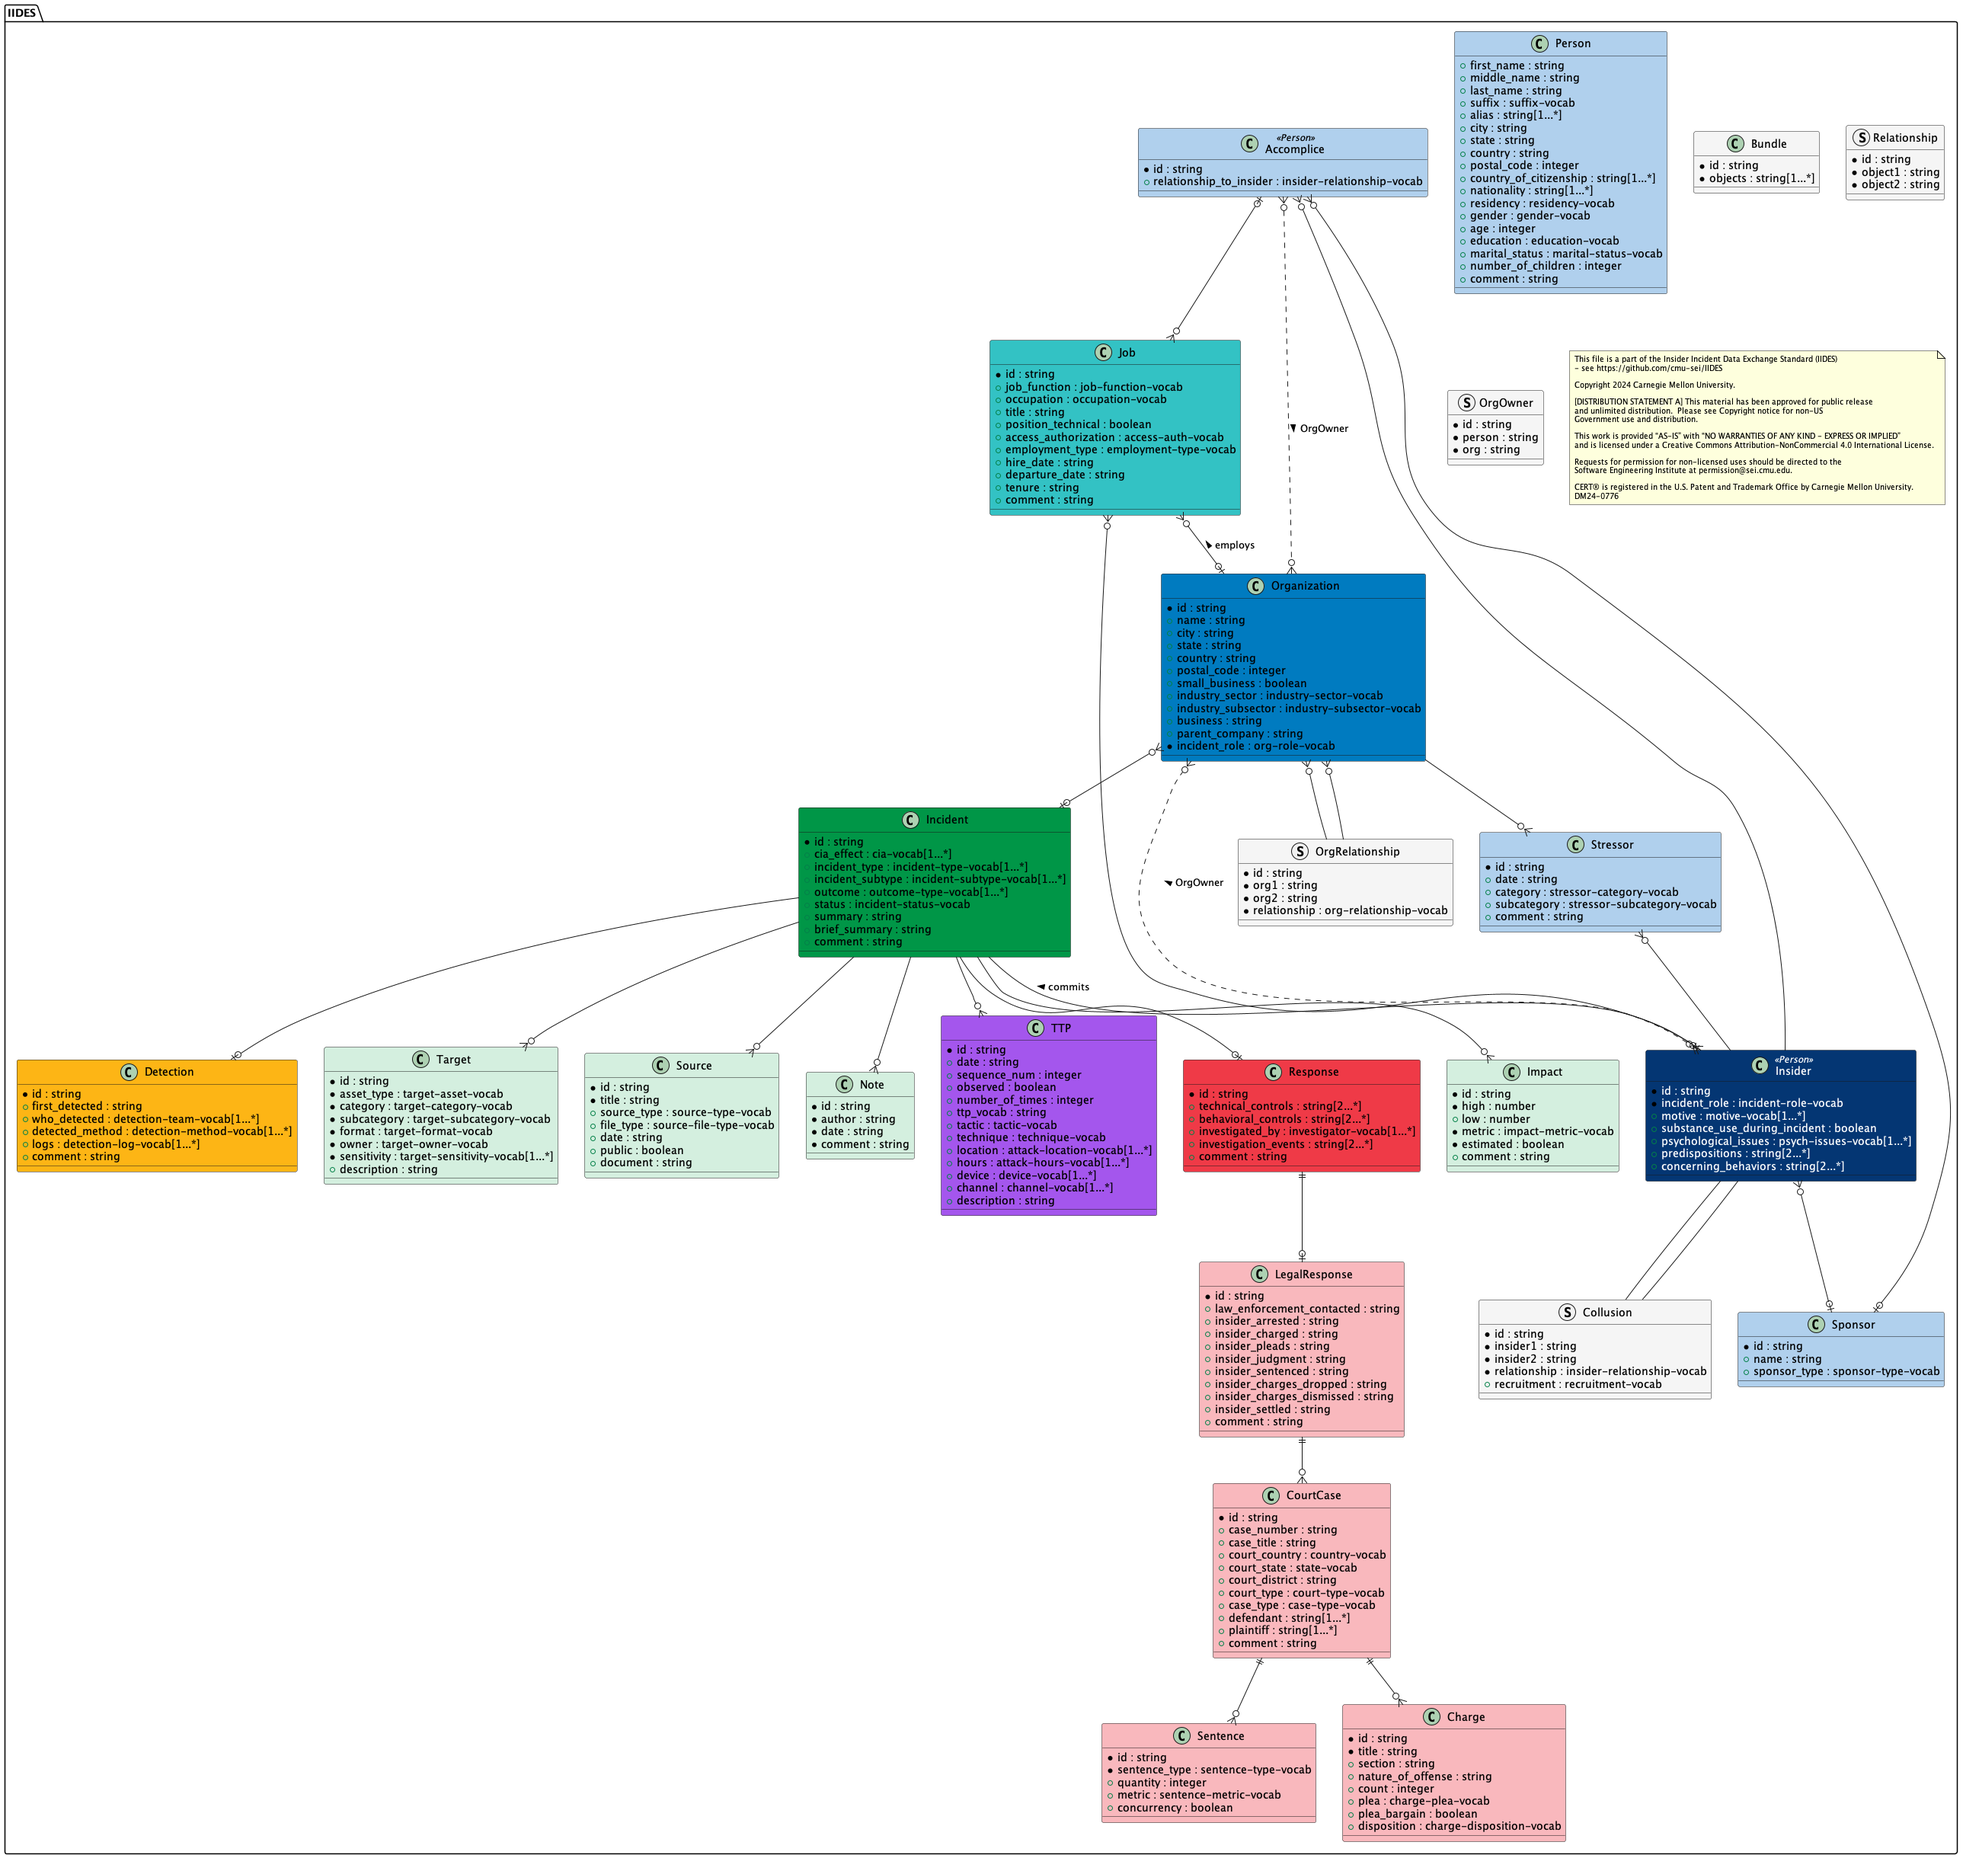
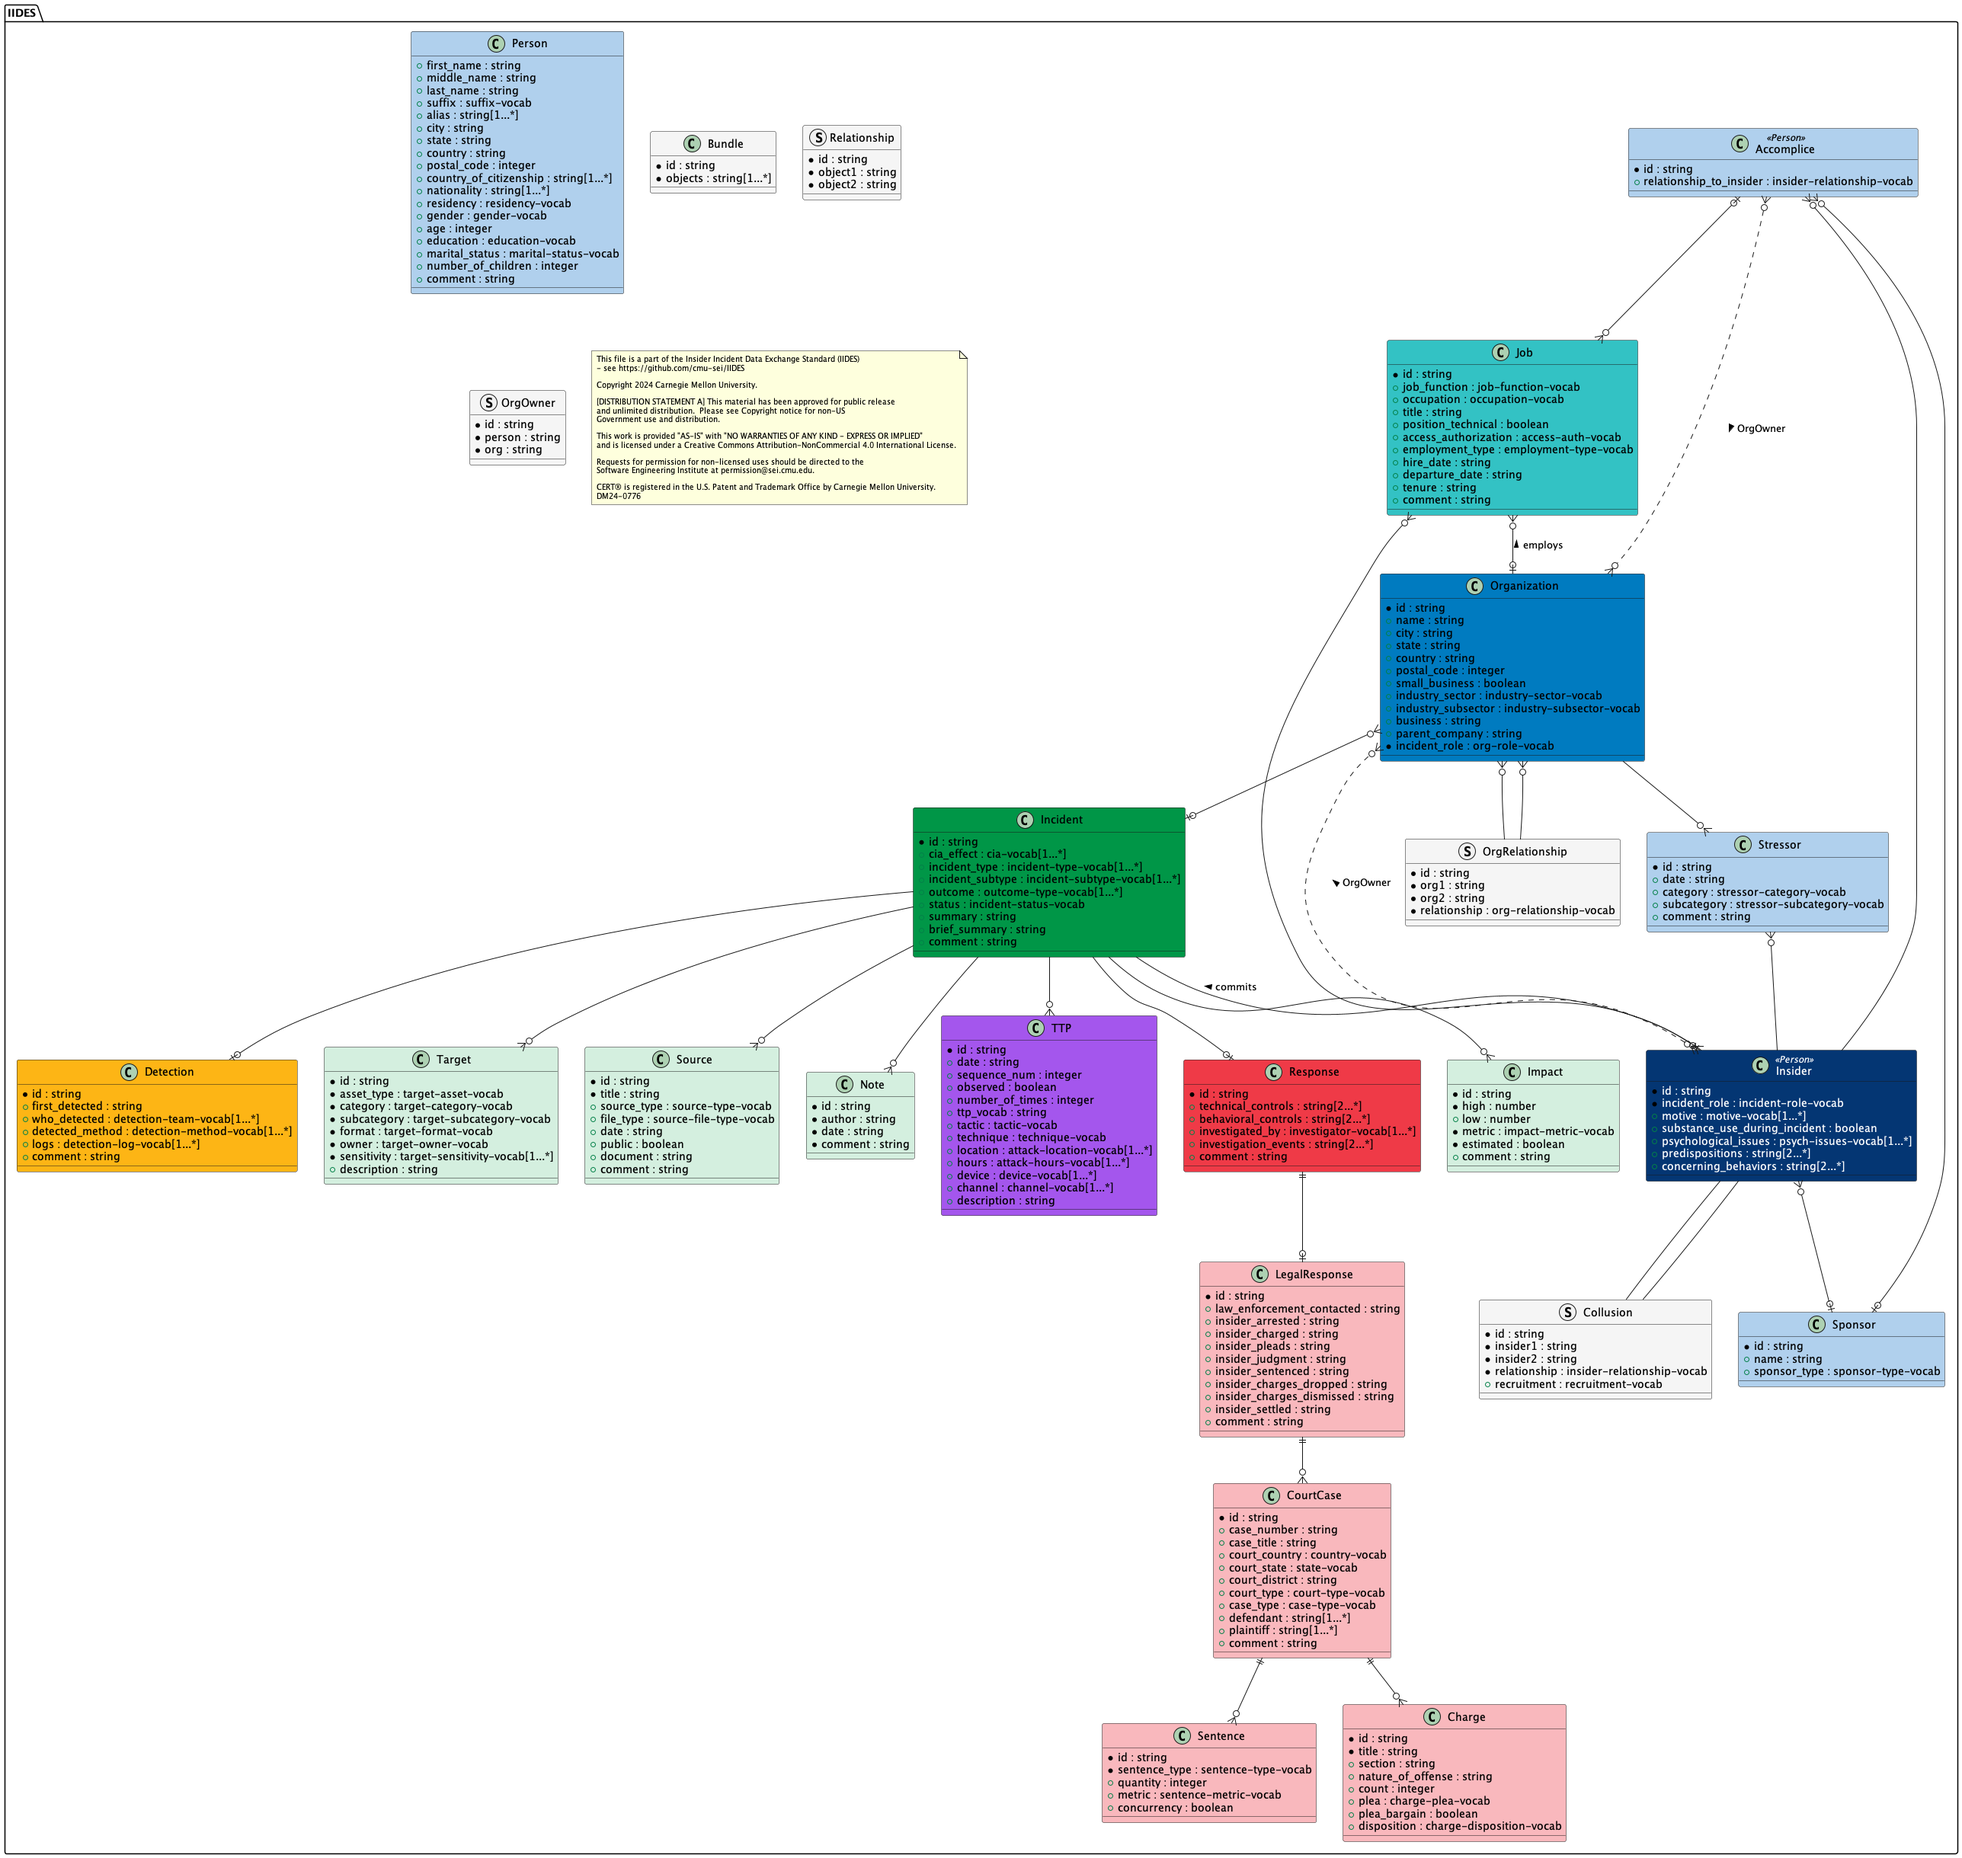
Add comment field to Source component

diff --git a/documentation/ChangeLog.md b/documentation/ChangeLog.md
@@ -1,12 +1,16 @@
 # Change Log
 
-## Version 0.1.1 "beta"
+## Version 0.2.0 "beta"
+ - (Mar 2025) add "comment" field to Source component
 
+### Version 0.1.x
+
+**0.1.1**
 - add "Social Media" to TTP channel vocab
 - add "Social Media Association" to Insider predisposition subtype vocab
 - fix various typos in descriptions and titles
 
-### Version 0.1.0
+**0.1.0**
 - v0.1 -- Nov 2024: Version 0, Revision 1 (v0.1) of IIDES released as "beta" for feedback
 
 ## Licensing

diff --git a/documentation/objects/source.md b/documentation/objects/source.md
@@ -14,6 +14,7 @@ Source describes a document that provides information about one or more aspects 
 - **`date`** *(date-time)* : The date the document was created or most recently modified
 - **`public`** *(boolean)* : Whether the document is publicly available
 - **`document`** *(string)* : A pointer to the document itself, whether a file path, location, URL, or document object
+- **`comment`** *(string)* : Clarifying comments about the source
 
 ## Vocabularies
 
